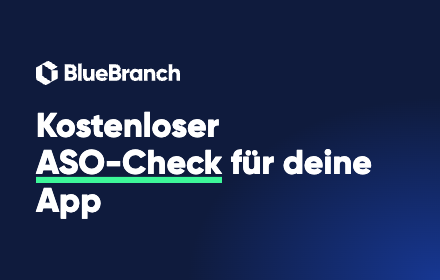
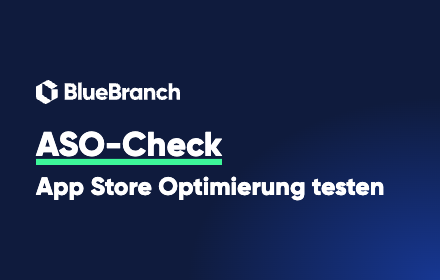
Version 1.0.1: ASO-Check nach SEO-Briefing
- Name „ASO-Check: App Store Optimierung testen by BlueBranch“, Kurzbeschreibung
  auf Deutsch und Englisch über _locales
- homepage_url auf /app-store-optimierung-aso
- background.js: Seite nach Installation, Deinstallations-URL, beide mit UTM
- Links im Ergebnis (ASO-Leistung, Praxisbeispiel, Erstgespräch) mit UTM
- Store-Grafiken und LISTING.md mit Suchbegriffen, englischer Store-Eintrag
- MIT-Lizenz, README Deutsch/Englisch
- Gilroy (kommerzielle Lizenz) und Pakete nicht mehr im Repo

Changed region(s): [[0.0591, 0.4, 0.8864, 0.8], [0.0591, 0.2, 0.4136, 0.3714]]

diff --git a/popup.html b/popup.html
@@ -2,13 +2,13 @@
 <html lang="de">
 <head>
   <meta charset="utf-8">
-  <title>App Analyse</title>
+  <title>ASO-Check</title>
   <link rel="stylesheet" href="popup.css">
 </head>
 <body>
   <header class="header">
     <img class="header__logo" src="brand/logo-white.svg" alt="BlueBranch" width="132" height="22">
-    <p class="header__title">ASO App-Analyse</p>
+    <p class="header__title">ASO-Check</p>
   </header>
 
   <main>
@@ -66,6 +66,13 @@
         </form>
       </div>
 
+      <nav class="more" aria-label="Weiterführende Links">
+        <p class="more__title">Mehr Sichtbarkeit für deine App</p>
+        <a href="https://www.bluebranch.de/app-store-optimierung-aso?utm_source=chrome-extension&amp;utm_medium=aso-check&amp;utm_campaign=bericht" target="_blank" rel="noopener">App Store Optimierung (ASO) mit BlueBranch</a>
+        <a href="https://www.bluebranch.de/projekte/luuki-vorschule-aso?utm_source=chrome-extension&amp;utm_medium=aso-check&amp;utm_campaign=referenz" target="_blank" rel="noopener">Praxisbeispiel: ASO für die Luuki-Vorschul-App</a>
+        <a href="https://www.bluebranch.de/termin?utm_source=chrome-extension&amp;utm_medium=aso-check&amp;utm_campaign=termin" target="_blank" rel="noopener">Kostenloses Erstgespräch vereinbaren</a>
+      </nav>
+
       <button id="restart" class="link-btn" type="button">Andere App analysieren</button>
     </section>
 
@@ -74,13 +81,14 @@
       <div class="success" aria-hidden="true">✓</div>
       <h1 class="headline">Dein <span class="accent">ASO-Bericht</span> ist unterwegs!</h1>
       <p class="muted">Schau in dein Postfach. Falls die Mail nicht ankommt, prüfe bitte deinen Spam-Ordner.</p>
+      <a class="btn btn--ghost" href="https://www.bluebranch.de/termin?utm_source=chrome-extension&amp;utm_medium=aso-check&amp;utm_campaign=termin" target="_blank" rel="noopener">Ergebnis im Erstgespräch besprechen</a>
       <button id="restart-sent" class="link-btn" type="button">Andere App analysieren</button>
     </section>
   </main>
 
   <footer class="footer">
     <span>Ein kostenloses Tool von</span>
-    <a href="https://www.bluebranch.de/?utm_source=chrome-extension&amp;utm_medium=popup" target="_blank" rel="noopener">BlueBranch</a>
+    <a href="https://www.bluebranch.de/?utm_source=chrome-extension&amp;utm_medium=aso-check&amp;utm_campaign=footer" target="_blank" rel="noopener">BlueBranch</a>
   </footer>
 
   <script src="popup.js"></script>

diff --git a/popup.css b/popup.css
@@ -98,6 +98,8 @@ form { display: flex; flex-direction: column; gap: 10px; }
 .btn:hover:not(:disabled) { background: #1e40af; }
 .btn:focus-visible { outline: 3px solid rgba(29, 78, 216, .35); outline-offset: 2px; }
 .btn:disabled { background: var(--line); color: var(--text-muted); cursor: not-allowed; }
+.btn--ghost { text-align: center; text-decoration: none; background: none; color: var(--brand-blue); box-shadow: inset 0 0 0 1.5px var(--brand-blue); }
+.btn--ghost:hover:not(:disabled) { background: var(--bg-light); }
 
 .link-btn {
   align-self: center;
@@ -174,6 +176,11 @@ form { display: flex; flex-direction: column; gap: 10px; }
 .consent { display: flex; gap: 8px; align-items: flex-start; font-size: 13px; line-height: 1.45; color: var(--text-muted); }
 .consent input { margin-top: 3px; accent-color: var(--brand-blue); }
 .consent a { color: var(--brand-blue); }
+
+.more { display: flex; flex-direction: column; gap: 6px; font-size: 14px; }
+.more__title { margin: 0; font-weight: 700; }
+.more a { color: var(--brand-blue); font-weight: 600; }
+.more a::after { content: " →"; }
 
 .success {
   align-self: center;

diff --git a/background.js b/background.js
@@ -1,0 +1,21 @@
+// Feste Einstiege auf bluebranch.de, damit Installationen und Deinstallationen in Plausible
+// über die UTM-Parameter zuzuordnen sind. Eigene noindex-Seiten folgen später; bis dahin
+// zeigen beide Links auf bestehende Seiten.
+const SITE = 'https://www.bluebranch.de';
+
+function trackedUrl(path, campaign) {
+  const url = new URL(path, SITE);
+  url.searchParams.set('utm_source', 'chrome-extension');
+  url.searchParams.set('utm_medium', 'aso-check');
+  url.searchParams.set('utm_campaign', campaign);
+  return url.toString();
+}
+
+chrome.runtime.onInstalled.addListener(({ reason }) => {
+  // Nur bei der Erstinstallation, nicht bei Updates oder Chrome-Updates
+  if (reason === chrome.runtime.OnInstalledReason.INSTALL) {
+    chrome.tabs.create({ url: trackedUrl('/app-store-optimierung-aso', 'willkommen') });
+  }
+});
+
+chrome.runtime.setUninstallURL(trackedUrl('/termin', 'feedback'));

diff --git a/store/promo.html b/store/promo.html
@@ -6,8 +6,9 @@
          background: radial-gradient(360px 260px at 100% 100%, rgba(29, 78, 216, .55), transparent 70%), #0f1b3d; }
   img { display: block; height: 24px; width: auto; align-self: flex-start; }
   h1 { margin: 0; font: 800 34px/1.1 "Gilroy ExtraBold", sans-serif; }
+  h1 small { display: block; margin-top: 10px; font-size: 25px; }
   .hl { box-shadow: inset 0 -0.18em 0 #3df799; white-space: nowrap; }
 </style></head><body>
   <img src="../brand/logo-white.svg" alt="BlueBranch">
-  <h1>Kostenloser <span class="hl">ASO-Check</span> für deine App</h1>
+  <h1><span class="hl">ASO-Check</span><small>App Store Optimierung testen</small></h1>
 </body></html>

diff --git a/store/screenshot.html b/store/screenshot.html
@@ -23,7 +23,7 @@
   <div>
     <img class="logo" src="../brand/logo-white.svg" alt="BlueBranch">
     <p class="eyebrow">KOSTENLOSER ASO-CHECK</p>
-    <h1>Wie gut ist dein <span class="hl">Store-Eintrag?</span></h1>
+    <h1>App Store Optimierung <span class="hl">testen</span> mit einem Klick</h1>
     <ul>
       <li>Score für App Store &amp; Google Play</li>
       <li>App-Name, Untertitel und Beschreibung im Check</li>

diff --git a/store/LISTING.md b/store/LISTING.md
@@ -1,42 +1,110 @@
-# Chrome Web Store – Eingaben für „ASO App-Analyse von BlueBranch“
+# Chrome Web Store – Eingaben für „ASO-Check: App Store Optimierung testen by BlueBranch“
 
 ## Paket
-`dist/bluebranch-aso-app-analyse-1.0.0.zip`
+`dist/bluebranch-aso-check-1.0.1.zip`
 
-## Store-Eintrag
+Name und Kurzbeschreibung kommen aus dem Paket (`_locales/de` und `_locales/en`) und lassen sich im
+Dashboard nicht überschreiben. Der Name ist in beiden Sprachen gleich, damit die Marke einheitlich bleibt.
 
-**Beschreibung**
+## Store-Eintrag Deutsch (Hauptsprache)
 
+**Name** (53 Zeichen): `ASO-Check: App Store Optimierung testen by BlueBranch`
+
+**Kurzbeschreibung** (132 Zeichen, aus dem Paket):
 ```
-Wie gut ist der Store-Eintrag deiner App? Der kostenlose ASO-Check von BlueBranch zeigt dir mit einem Klick, wie gut dein Eintrag im Apple App Store oder im Google Play Store für App Store Optimization (ASO) aufgestellt ist.
-
-So funktioniert's:
-• Öffne deine App im App Store oder bei Google Play und klicke auf das Icon – die Analyse startet automatisch.
-• Alternativ fügst du einfach den Link zu einer beliebigen App ein.
-
-Das wird geprüft:
-• App-Name: Nutzt du das Zeichenlimit für deine wichtigsten Keywords?
-• Untertitel bzw. Kurzbeschreibung: Ist er lang und aussagekräftig genug?
-• Wort-Doppelungen: Verschenkst du Platz, weil Wörter aus dem Namen im Untertitel wiederholt werden?
-• Beschreibung: Hat sie die Länge, die Store-Algorithmen und Nutzer erwarten?
-
-Du erhältst einen ASO-Score von 0 bis 30 Punkten mit Aufschlüsselung nach Kategorien. Auf Wunsch schicken wir dir zusätzlich kostenlos einen detaillierten ASO-Bericht mit konkreten Tipps per E-Mail.
-
-Was der Check nicht kann: Er bewertet Länge und Aufbau deiner Texte, nicht Suchvolumen oder Rankings einzelner Keywords. Für eine vollständige Keyword-Strategie sprich uns gerne an.
-
-BlueBranch GmbH aus Fürth entwickelt Apps und Websites und kümmert sich um ihre Sichtbarkeit: https://www.bluebranch.de
+App Store Optimierung testen: kostenloser ASO-Check für App Store und Google Play, mit Score für App-Name, Untertitel, Beschreibung.
 ```
 
-**Kategorie:** Tools (alternativ: Entwicklertools)
+**Ausführliche Beschreibung**
+
+```
+Der ASO-Check testet die App Store Optimierung einer App mit einem Klick. Er zeigt, wie gut ihr Eintrag im Apple App Store oder im Google Play Store aufgestellt ist, und bewertet App-Name, Untertitel und Beschreibung mit einem Score von 0 bis 30 Punkten.
+
+So funktioniert der ASO-Check:
+• Öffne die App im App Store oder bei Google Play und klicke auf das Symbol der Erweiterung. Die Analyse startet automatisch.
+• Alternativ fügst du den Link zu einer beliebigen App ein, auch zu Apps der Konkurrenz.
+
+Was der ASO-Check prüft:
+• App-Name (bis 8 Punkte): ob der Name das Zeichenlimit von 30 Zeichen für Marke und wichtigste Suchbegriffe nutzt.
+• Untertitel bzw. Kurzbeschreibung (bis 8 Punkte): ob die 30 Zeichen im App Store oder die 80 Zeichen bei Google Play ausgeschöpft sind.
+• Wort-Doppelungen (bis 6 Punkte): ob Wörter aus dem App-Namen im Untertitel wiederholt werden und dort Platz für weitere Keywords verschenken.
+• Beschreibung (bis 8 Punkte): ob die Beschreibung die Länge hat, die Store-Suche und Nutzer erwarten (bis 4.000 Zeichen).
+
+Auf Wunsch schicken wir dir kostenlos einen ausführlichen ASO-Bericht mit konkreten Tipps per E-Mail.
+
+Für wen: App-Entwickler, Product Owner, Marketing-Teams und Agenturen, die App Store SEO für iOS- und Android-Apps regelmäßig prüfen wollen.
+
+Datenschutz: Die Erweiterung liest nur die Adresse des geöffneten Tabs und schickt sie nur dann an unseren Analyseserver, wenn es eine Seite des App Store oder von Google Play ist. Name und E-Mail-Adresse verarbeiten wir nur, wenn du den Bericht anforderst. Mehr in unserer Datenschutzerklärung: https://www.bluebranch.de/datenschutzerklaerung
+
+Der ASO-Check bewertet Länge und Aufbau der Texte, nicht Suchvolumen oder Rankings einzelner Keywords. Für eine vollständige App Store Optimierung mit Keyword-Recherche gibt es die ASO-Betreuung von BlueBranch: https://www.bluebranch.de/app-store-optimierung-aso
+
+Entwickelt von der BlueBranch GmbH, App- und Softwareagentur aus Fürth bei Nürnberg.
+```
+
+**Kategorie:** Tools (Alternative: Entwicklertools)
 **Sprache:** Deutsch
 
 **Grafiken**
-- Store-Symbol 128×128: `icons/icon-128.png`
-- Screenshot 1280×800: `store/screenshot-1280x800.png`
-- Kleine Werbekachel 440×280: `store/promo-440x280.png`
+- Store-Symbol 128×128: `store/store-icon-128x128.png`
+- Screenshot 1280×800: `store/screenshot-1280x800.png` (Bildunterschrift „App Store Optimierung testen mit einem Klick“)
+- Kleine Werbekachel 440×280: `store/promo-440x280.png` („ASO-Check / App Store Optimierung testen“)
 
-**Startseite:** https://www.bluebranch.de/
+**Startseite:** https://www.bluebranch.de/app-store-optimierung-aso
 **Support-URL:** https://www.bluebranch.de/kontakt
+
+## Store-Eintrag Englisch (zweite Sprache)
+
+Im Dashboard unter „Store-Eintrag“ die Sprache „Englisch“ hinzufügen. Name wie oben, Kurzbeschreibung
+kommt aus `_locales/en` (131 Zeichen):
+```
+Test your app store optimization in one click: free ASO tool for App Store and Google Play that scores name, subtitle, description.
+```
+
+**Detailed description**
+
+```
+ASO-Check tests the app store optimization of any app with one click. It shows how well a listing on the Apple App Store or Google Play is set up and scores the app name, subtitle and description from 0 to 30 points.
+
+How it works:
+• Open an app on the App Store or Google Play and click the extension icon. The check starts automatically.
+• Or paste the link to any app, including your competitors' apps.
+
+What ASO-Check scores:
+• App name (up to 8 points): whether the name uses the 30-character limit for brand and main keywords.
+• Subtitle or short description (up to 8 points): whether the 30 characters on the App Store or 80 characters on Google Play are used.
+• Duplicate words (up to 6 points): whether words from the app name are repeated in the subtitle, wasting room for more keywords.
+• Description (up to 8 points): whether the description has the length that store search and users expect (up to 4,000 characters).
+
+The interface is in German. On request we email you a free, detailed ASO report with concrete recommendations.
+
+Who it is for: app developers, product owners, marketing teams and agencies who check App Store SEO for iOS and Android apps regularly.
+
+Privacy: the extension only reads the address of the open tab and only sends it to our analysis server if it is an App Store or Google Play page. Name and email address are only processed if you request the report. Privacy policy (German): https://www.bluebranch.de/datenschutzerklaerung
+
+ASO-Check rates the length and structure of your texts, not search volume or keyword rankings. For full app store optimization including keyword research, BlueBranch offers ASO support: https://www.bluebranch.de/app-store-optimierung-aso
+
+Built by BlueBranch GmbH, an app and software agency from Fürth near Nuremberg, Germany.
+```
+
+Screenshot und Werbekachel bleiben auf Deutsch (die Oberfläche ist deutsch).
+
+## Links aus der Erweiterung (UTM)
+
+Alle Links tragen `utm_source=chrome-extension&utm_medium=aso-check&utm_campaign=<stelle>`.
+
+| Stelle | Ziel | `utm_campaign` |
+|---|---|---|
+| `homepage_url` (Link „Website“ im Store) | /app-store-optimierung-aso | keine |
+| Nach der Installation (`onInstalled`, nur `install`) | /app-store-optimierung-aso | `willkommen` |
+| Nach der Deinstallation (`setUninstallURL`) | /termin | `feedback` |
+| Im Ergebnis, ASO-Leistung | /app-store-optimierung-aso | `bericht` |
+| Im Ergebnis, Praxisbeispiel | /projekte/luuki-vorschule-aso | `referenz` |
+| Im Ergebnis und nach dem Bericht, Kontakt | /termin | `termin` |
+| Footer | / | `footer` |
+
+Installation und Deinstallation zeigen vorerst auf bestehende Seiten. Sobald es eigene noindex-Hilfsseiten
+gibt (z. B. /aso-check/willkommen und /aso-check/feedback), in `background.js` tauschen und eine neue
+Version hochladen.
 
 ## Datenschutz (Tab „Datenschutzpraktiken“)
 
@@ -78,7 +146,7 @@ Die Store-URL wird an den Analyse-Server der BlueBranch GmbH geschickt, der den 
 ## Textvorschlag für die Datenschutzerklärung
 
 ```
-Chrome-Erweiterung „ASO App-Analyse von BlueBranch“
+Chrome-Erweiterung „ASO-Check: App Store Optimierung testen by BlueBranch“
 
 Wenn du unsere Browser-Erweiterung nutzt, übermitteln wir die Adresse (URL) des von dir gewählten App-Store- oder Google-Play-Eintrags an unseren Analyse-Server (app-store-analyzer.appmarketinghub.de), um den ASO-Score zu berechnen. Weitere Inhalte deiner Tabs oder deinen Browserverlauf lesen wir nicht.
 

diff --git a/README.md b/README.md
@@ -1,19 +1,57 @@
-# ASO App-Analyse von BlueBranch (Chrome-Extension)
+# ASO-Check: App Store Optimierung testen by BlueBranch
 
-Popup-Extension (Manifest V3), die einen App-Store- oder Google-Play-Link an den
-`app-store-analyzer-api` schickt und den ASO-Score (0–30) mit Aufschlüsselung zeigt.
-Auf Wunsch wird der detaillierte Bericht per Mail angefordert.
+Chrome-Erweiterung (Manifest V3), die die App Store Optimierung (ASO) einer App mit einem Klick testet.
+Sie schickt den Link eines Eintrags im Apple App Store oder bei Google Play an den Analyseserver und zeigt
+einen ASO-Score von 0 bis 30 Punkten für App-Name, Untertitel bzw. Kurzbeschreibung, Wort-Doppelungen und
+Beschreibung. Auf Wunsch kommt ein ausführlicher ASO-Bericht per E-Mail.
 
-- Store-Texte, Datenschutzangaben und Grafiken: `store/`
-- Branding nach BlueBranch-Design-Handbuch (Gilroy/Titillium, Navy/Brand Blue, Original-Logo und Avatar)
+- Website: https://www.bluebranch.de/app-store-optimierung-aso
+- Store-Texte, Datenschutzangaben und Grafiken: [`store/`](store/)
+
+[English version below](#english)
+
+## Aufbau
+
+| Datei | Zweck |
+|---|---|
+| `popup.html`, `popup.css`, `popup.js` | Oberfläche: erkennt die Store-Seite im aktiven Tab, zeigt Score und Berichtsformular |
+| `background.js` | Öffnet nach der Installation die ASO-Seite auf bluebranch.de, setzt die Seite nach der Deinstallation |
+| `_locales/` | Name und Kurzbeschreibung auf Deutsch und Englisch |
+| `tools/` | Puppeteer-Skripte zum Testen des Popups und Rendern der Store-Grafiken |
+
+Berechtigungen: `activeTab` (Adresse des Tabs beim Klick aufs Symbol), `storage` (letztes Ergebnis für die
+laufende Sitzung), Host-Zugriff nur auf den Analyseserver.
 
 ## Paket bauen
 
+Die Überschriftenschrift Gilroy ExtraBold ist kommerziell lizenziert und deshalb nicht im Repo. Für das
+Store-Paket `fonts/Gilroy-ExtraBold.woff2` aus dem BlueBranch-Design-Handbuch lokal ablegen. Ohne die Datei
+fällt die Oberfläche auf Titillium Web zurück.
+
 ```bash
-zip -qr dist/bluebranch-aso-app-analyse-<version>.zip manifest.json popup.html popup.css popup.js icons fonts brand/logo-white.svg
+zip -qr dist/bluebranch-aso-check-<version>.zip manifest.json background.js popup.html popup.css popup.js _locales icons fonts brand/logo-white.svg
 ```
 
 ## Testen
 
 `chrome://extensions` → Entwicklermodus → „Entpackte Erweiterung laden“ → diesen Ordner wählen.
-`tools/popup-test.cjs` rendert das Popup mit simulierten chrome-APIs gegen die Live-API (Puppeteer, arm64-Node).
+`tools/popup-test.cjs` rendert das Popup mit simulierten chrome-APIs gegen die Live-API.
+
+## Lizenz
+
+Code unter [MIT-Lizenz](LICENSE). Logo, Schriften und Name „BlueBranch“ sind davon ausgenommen.
+
+---
+
+## English
+
+ASO-Check is a Chrome extension (Manifest V3) that tests the app store optimization of any app in one click.
+It sends the link of an Apple App Store or Google Play listing to the analysis server and shows an ASO score
+from 0 to 30 for app name, subtitle or short description, duplicate words and description. A detailed ASO
+report can be requested by email. The interface is in German.
+
+- Website: https://www.bluebranch.de/app-store-optimierung-aso
+- Build: see the `zip` command above. Test: load the folder as an unpacked extension in `chrome://extensions`.
+- License: code under [MIT](LICENSE); the BlueBranch logo, fonts and name are excluded.
+
+Built by [BlueBranch GmbH](https://www.bluebranch.de), an app and software agency from Fürth near Nuremberg, Germany.
